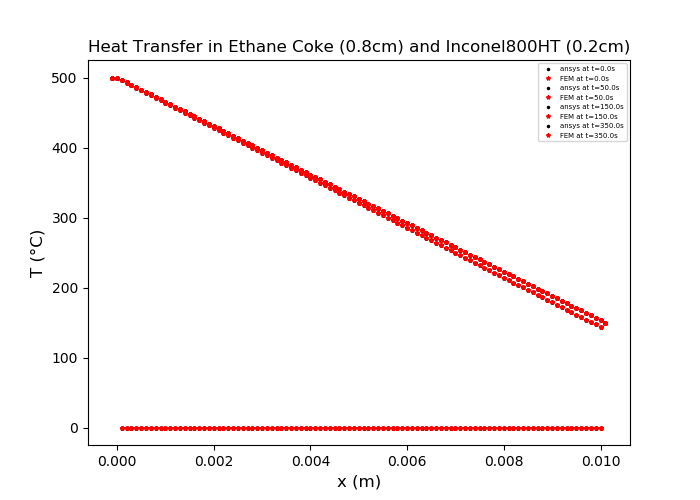
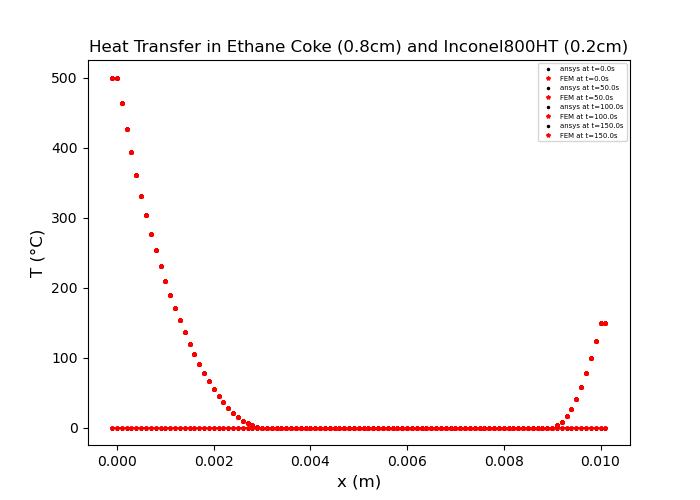
fixed convective bc
fixed convective bc in explicit 1d example, but there is still problem in the crank nicolson scheme...fixed it tomorrow!

diff --git a/heat_transfer/boundaryConditions.py b/heat_transfer/boundaryConditions.py
@@ -1,3 +1,4 @@
+import numpy as np
 import sys
 sys.path.insert(0, '../../')
 from tools.tools import *
@@ -100,14 +101,15 @@ def BC_1D_Dirichlet_Tbl500_Convection(T, x, _lambda, mask): # _lambda= [ [rho1, 
 	# heat being convected away at the right boundary, according to the heat transfer coefficient h
 	# -K * (dT/dx) = qx = h * dT, h = -k/dx, k=-h*dx
 	h_br = 20
+	T_bc =  np.zeros(len(T))
 	for i in range(len(mask)):
 		mask_i = mask[i]
 
 		if mask_i == 0:  # at the ghost points
 			if x[i] < 0:
-				T[i] = Tbl
+				T_bc[i] = Tbl
 			elif x[i] > L:
-				T[i] = Tbr # assigning free stream temperature here, e.g. temperature of air
+				T_bc[i] = Tbr # assigning free stream temperature here, e.g. temperature of air
 			else:
 				print("Error: shouldnt be here.")
 				break
@@ -115,7 +117,7 @@ def BC_1D_Dirichlet_Tbl500_Convection(T, x, _lambda, mask): # _lambda= [ [rho1, 
 			mask_im1 = mask[i - 1]
 			mask_ip1 = mask[i + 1]
 			if mask_im1 == 0:  # left boundary of the domain
-				T[i] = Tbl
+				T_bc[i] = Tbl
 			if mask_ip1 == 0:  # right boundary of the domain
 				
 				rho_i = _lambda[0][i] 
@@ -123,15 +125,15 @@ def BC_1D_Dirichlet_Tbl500_Convection(T, x, _lambda, mask): # _lambda= [ [rho1, 
 				k_i = _lambda[2][i] 
 				dx = x[i+1] - x[i]
 
-				a_i = 1+ ( 2*k_i*dt/(rho_i*cp_i*dx*dx) - 2*h_br*dt/(rho_i*cp_i*dx)  ) # is it minus here?
+				a_i = 1+ ( -2*k_i*dt/(rho_i*cp_i*dx*dx) - 2*h_br*dt/(rho_i*cp_i*dx)  ) # is it minus here?
 				b_i = (2*h_br*dt/(rho_i*cp_i*dx)) # is it plus here?
-				c_i = -2*k_i*dt/(rho_i*cp_i*dx*dx) 
-				print(str(a_i)+" "+str(c_i)+" "+str(b_i))
+				c_i = 2*k_i*dt/(rho_i*cp_i*dx*dx)
+				print(str(a_i*T[i])+" "+str(c_i*T[i-1])+" "+str(b_i*Tbr))
 
-				T[i] = a_i*T[i]+ c_i*T[i-1] + b_i*Tbr 
-				print(T[i])
+				T_bc[i] = a_i*T[i]+ c_i*T[i-1] + b_i*Tbr
+				print(T_bc[i])
 
-	return T
+	return T_bc
 
 
 '''                           periodic  --> j, y-axis

diff --git a/heat_transfer/crankNicolson.py b/heat_transfer/crankNicolson.py
@@ -66,7 +66,7 @@ def crankNicolson1D_Dirichlet(T, mask, _lambda, dx, dt): # if T=[Tbl, T1, T2, T3
 
 def crankNicolson1D_Dirichlet_Convec(T, mask, _lambda, dx, dt): # if T=[Tbl, T1, T2, T3, Tbr] then mask=[0, 1, 1, 1, 0]
   print("crankNicolson1D_Dirichlet_Convec()") # dirichlet B.C at the left and Convection at the right with heat transfer coefficient h = ? and free stream temp of air=?
-
+  h_br = 20 # heat transfer coefficient
   length_T = len(T)
   length_mask = len(mask)
   
@@ -98,6 +98,18 @@ def crankNicolson1D_Dirichlet_Convec(T, mask, _lambda, dx, dt): # if T=[Tbl, T1,
       if mask_im1==0: # at the left boundary, but in the domain
         A[i][i] = 1
         b[i] = T[i] 
+      elif mask_ip1 ==0: # at the right boundary, so convective B.C: TODO!
+        #rho_i = _lambda[0][i]
+        #cp_i = _lambda[1][i]
+        #k_i = _lambda[2][i]
+        #ai =  (2 * k_i * dt / (rho_i * cp_i * dx * dx) - 2 * h_br * dt / (rho_i * cp_i * dx))  # is it minus here?
+        #bi = (2 * h_br * dt / (rho_i * cp_i * dx))  # is it plus here?
+        #ci = -2 * k_i * dt / (rho_i * cp_i * dx * dx)
+        #print(str(ai) + " " + str(ci) + " " + str(bi))
+        A[i][i] =1# ai
+        #A[i][i + 1] = bi
+        #A[i][i - 1] = ci
+        b[i] = T[i]  # a_i*T[i]+ c_i*T[i-1] + b_i*Tbr
 
       else: # inside the domain
         ai = 1/dt + _lambda_i / (dx*dx)

diff --git a/heat_transfer/examples/evolveT_1D_Dirichlet_Convec_Linear0_CokeInconel800HT_Continuity_FTCS.py b/heat_transfer/examples/evolveT_1D_Dirichlet_Convec_Linear0_CokeInconel800HT_Continuity_FTCS.py
@@ -29,14 +29,14 @@ def evolveT_1D_Dirichlet_Linear0_TwoMaterials_Continuity_FTCS():
   x_interface=0.8*L
   # importing initial conditions
   t, x, T, mask, _lambda = IC_1D_Linear0_TwoMaterials(x_interface)
-  print(_lambda[2])
+
   for i in range(len(t)):
     ti = t[i]
     print("t=" + str(ti) + "s; t_max=" + str(t_max))
     # making boundary conditions
     # put it in the FTCS_Dirichlet_TwoMaterials(T, mask, _lambda, x, dt, x_interface)
-    
-    #print(mask)
+
+    print(T)
 
     # saving Temperature at t=n to .txt under /data
     if ti in plot_times:
@@ -44,6 +44,7 @@ def evolveT_1D_Dirichlet_Linear0_TwoMaterials_Continuity_FTCS():
       writeData(directory, ti, x, T, _lambda)
     
     Tn = FTCS_Dirichlet_TwoMaterials(T, mask, _lambda, x, dt, x_interface)
+
 
     # giving the new temperature to the old temperature for the next iteration
     T = Tn

diff --git a/heat_transfer/explicitDiscretisation.py b/heat_transfer/explicitDiscretisation.py
@@ -59,7 +59,7 @@ def FTCS_Dirichlet_TwoMaterials(T, mask, _lambda, x, dt, x_interface=0.5*L):  # 
       mask_im1 = mask[i-1]
 
       if mask_ip1==0 or mask_im1==0: # we are at the left or right boundary, do not calculate here 
-        continue               # because they were obtained in the B.C function
+        continue                     # because they were obtained in the B.C function
       else:
         at_interface = 0
         mask_ip1 = mask[i+1]

diff --git a/heat_transfer/examples/evolveT_1D_Dirichlet_Convec_Linear_Aluminium.py b/heat_transfer/examples/evolveT_1D_Dirichlet_Convec_Linear_Aluminium.py
@@ -27,7 +27,7 @@ def evolveT_1D_Dirichlet_Convec_Linear0_Aluminium():
     ti = t[i]
     print("t=" + str(ti) + "s; t_max="+str(t_max))
     # making boundary conditions
-    T, _lambda = BC_1D_Dirichlet_Tbl500_Convection(T, x, _lambda, mask)
+    T = BC_1D_Dirichlet_Tbl500_Convection(T, x, _lambda, mask)
     
     # saving Temperature at t=n to .txt under /data
     writeData(directory, ti, x, T, _lambda)
